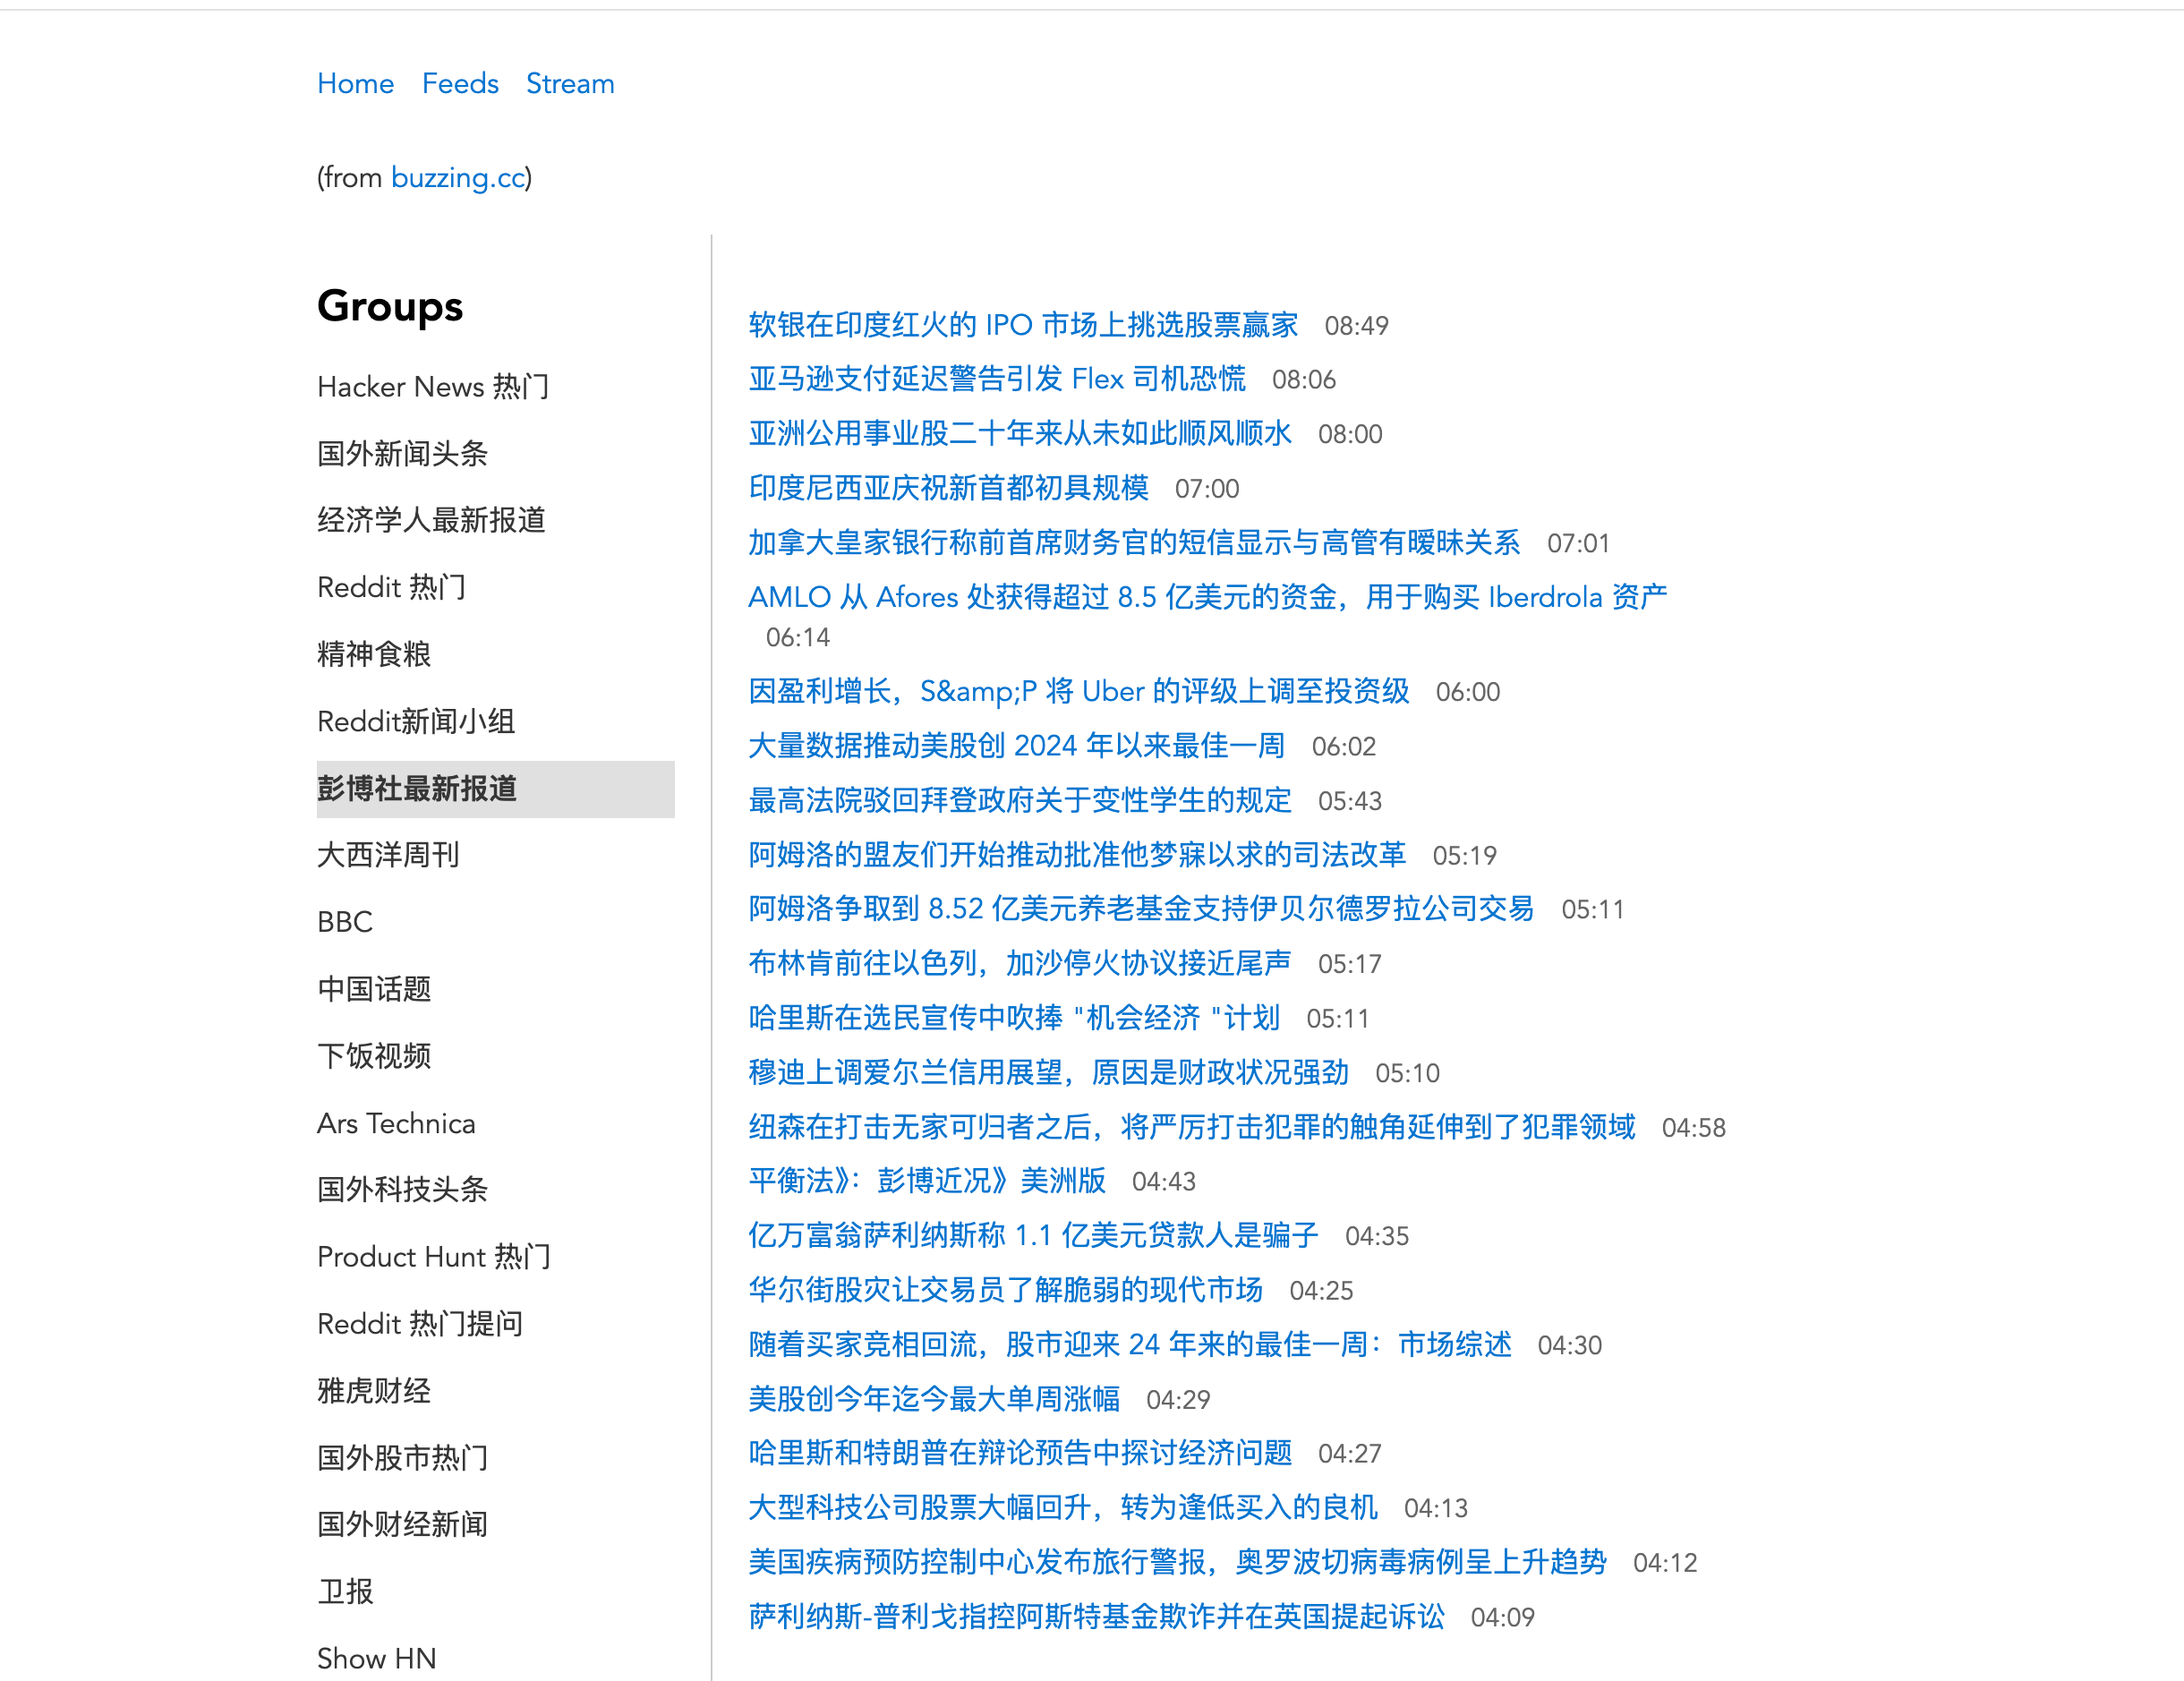
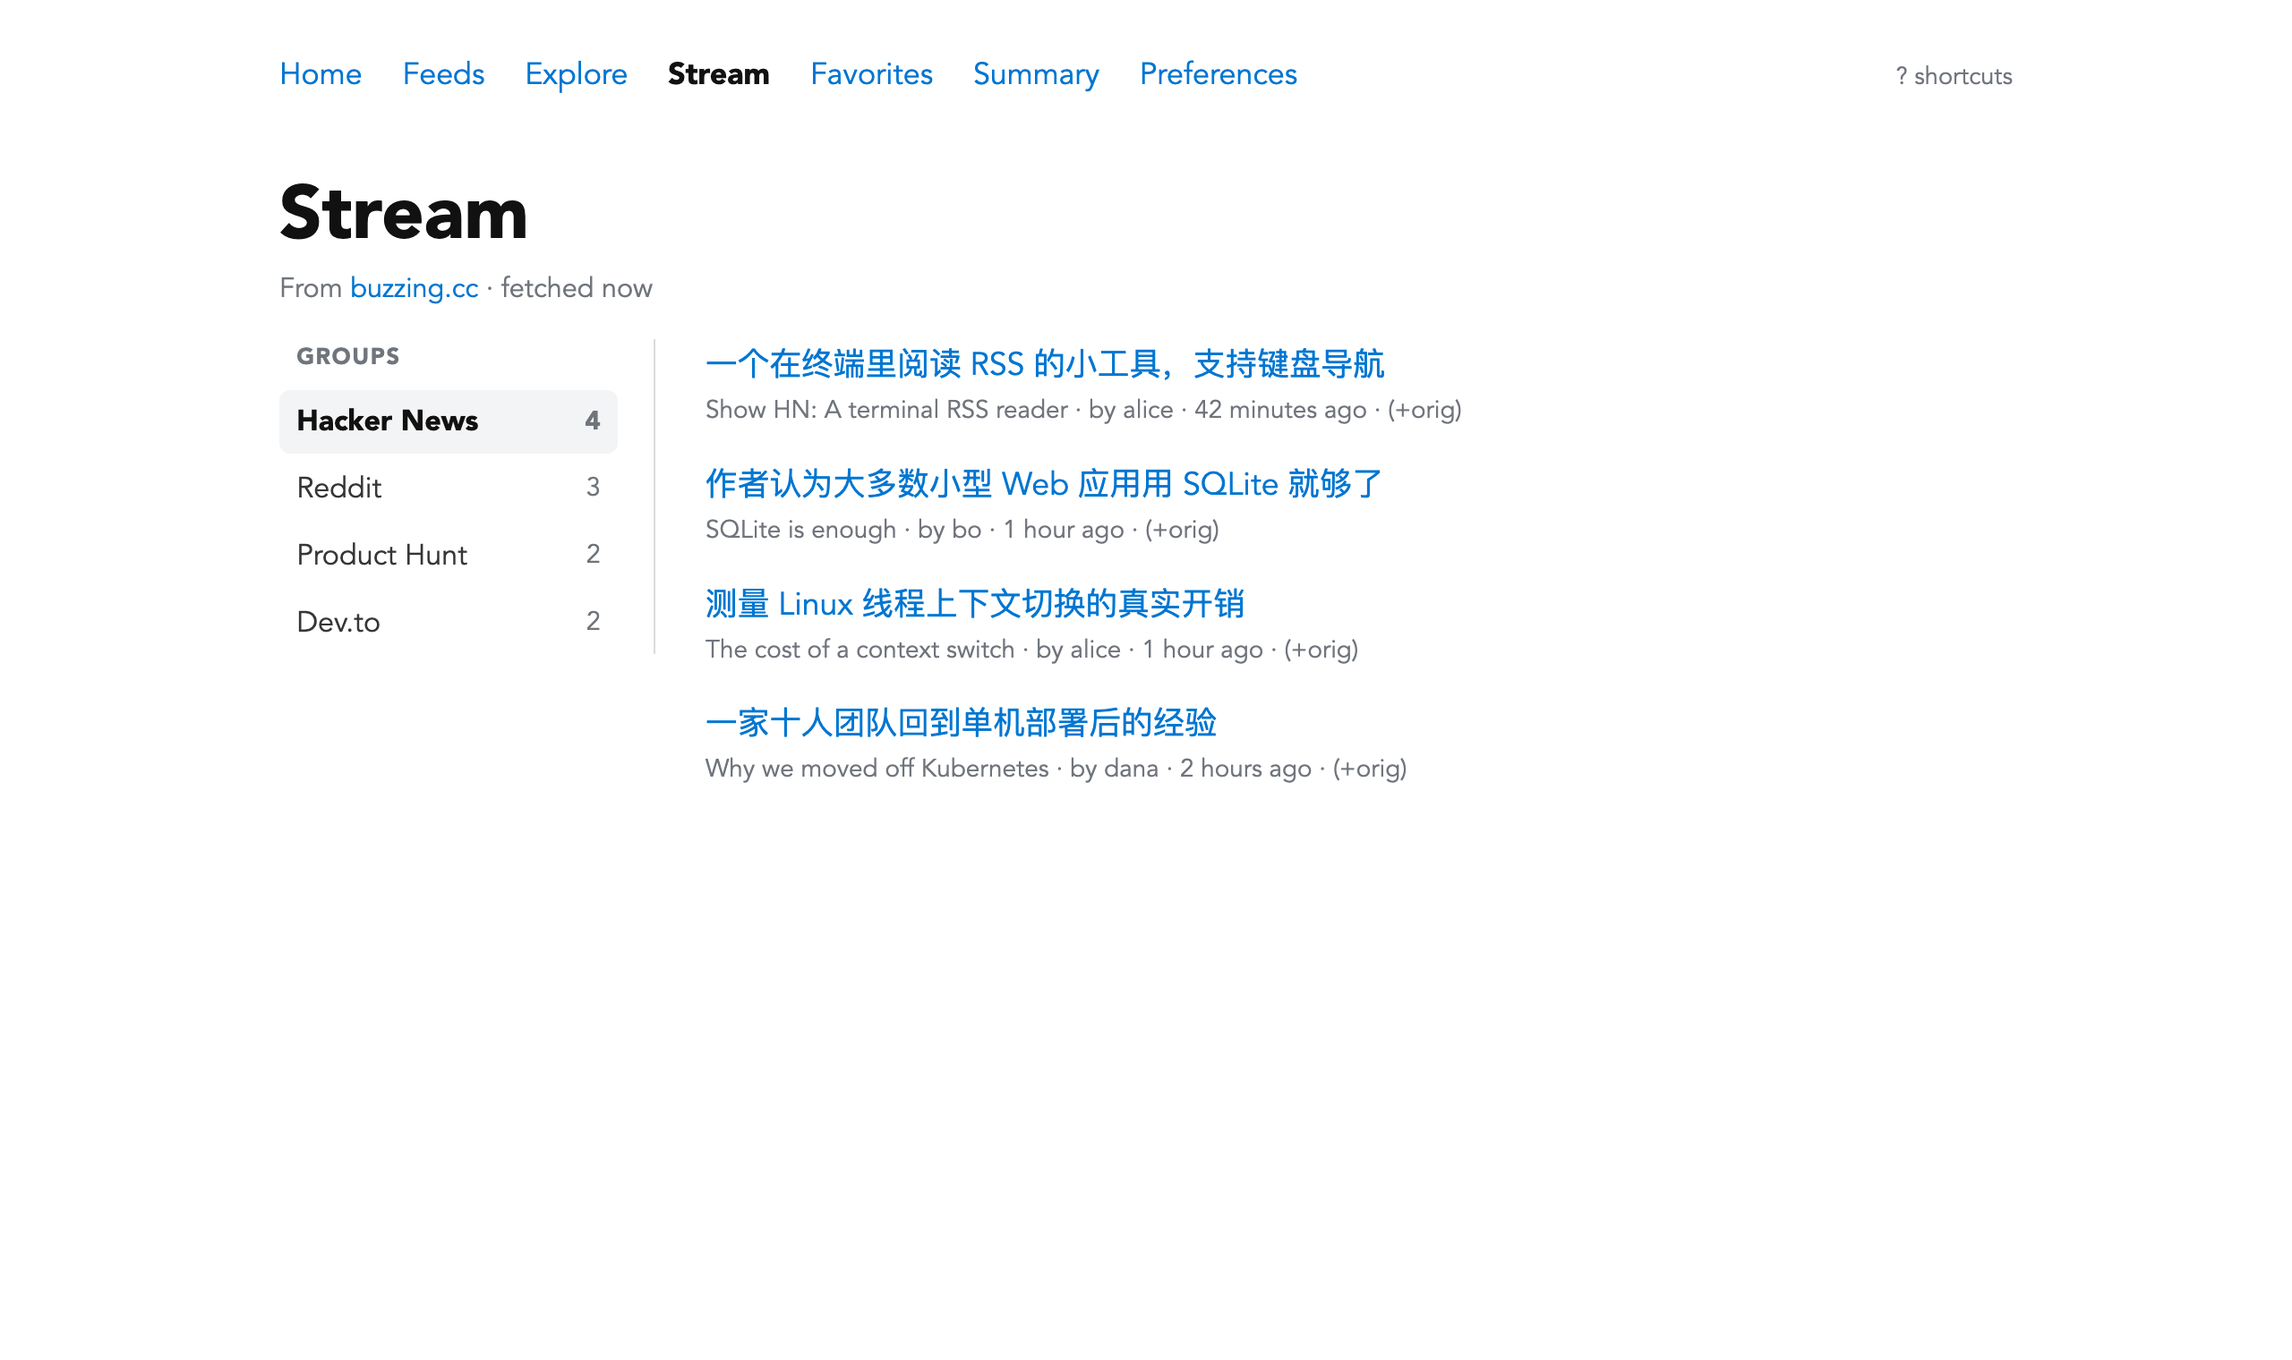
docs: refresh README screenshots with demo data
Replace the old screenshots and add Explore, Summary and a 390px
mobile Stream shot. All content is fake demo data.

diff --git a/README.md b/README.md
@@ -59,8 +59,34 @@ docker run -d --restart unless-stopped -e DB="rssy.db" -e SITE_URL="https://exam
 
 ## PNGs
 
+> 截图均使用演示数据。
+
+Unreads
+
 ![homepage unread](assets/homepage_unread.png)
+
+Feeds
+
 ![feeds list](assets/feeds_list.png)
+
+Feed articles
+
 ![feed post list](assets/feed_post_list.png)
+
+Reader
+
 ![feed post](assets/feed_post.png)
+
+Stream（桌面分栏 / 移动端标签）
+
 ![stream](assets/stream.png)
+
+<img src="assets/stream_mobile.png" alt="stream mobile" width="320">
+
+Explore
+
+![explore](assets/explore.png)
+
+Summary
+
+![ai summary](assets/ai_summary.png)
